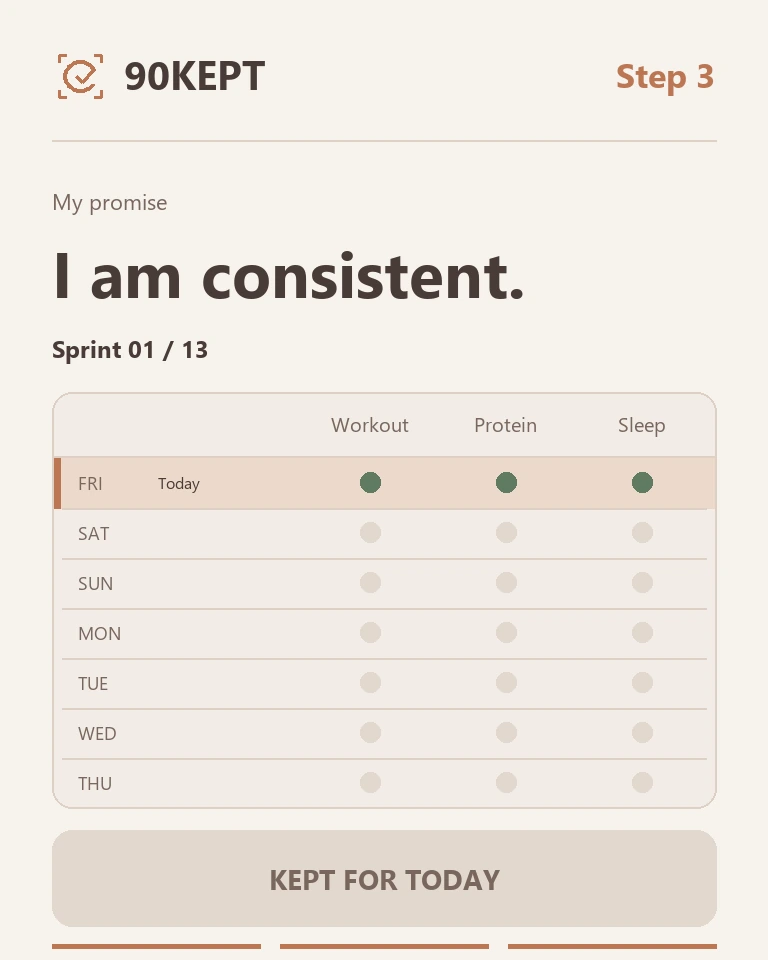
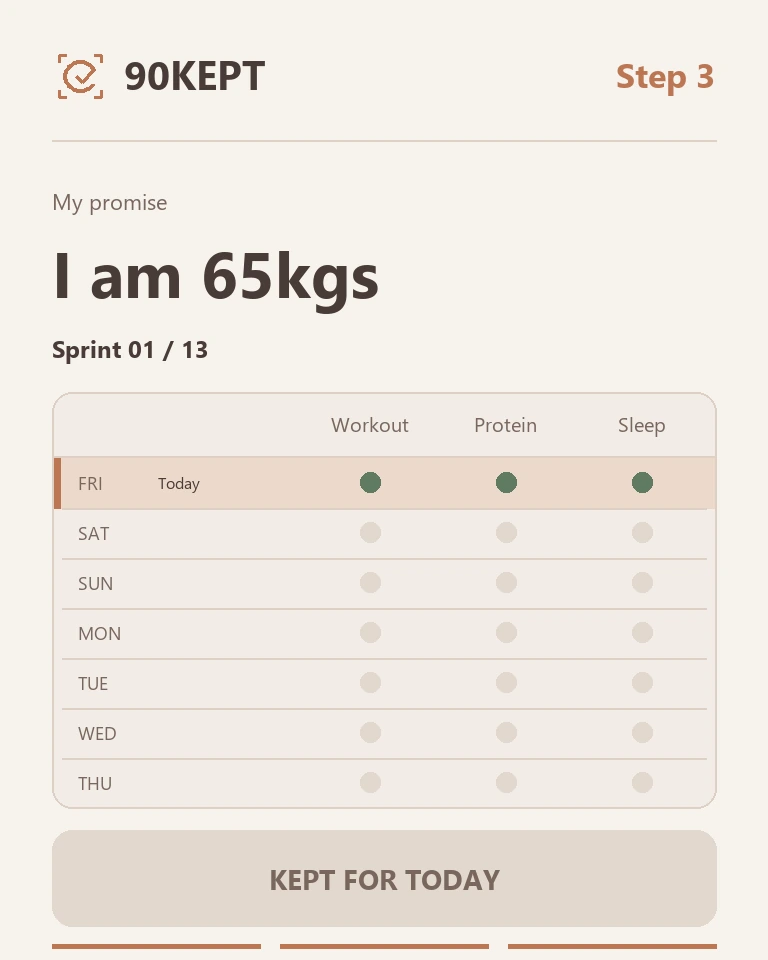
Use I am 65kgs as the product preview promise

Changed region(s): [[0.25, 0.25, 0.6875, 0.3438]]

diff --git a/90kept/index.html b/90kept/index.html
@@ -39,8 +39,8 @@
   <p id="login-error" class="status-message" role="alert" hidden></p>
   <figure class="product-flow">
     <video id="product-flow-video" width="768" height="960" muted playsinline preload="none"
-      poster="./static/media/product-flow-poster.webp?v=8f54609f13"
-      data-src="./static/media/product-flow.mp4?v=2b407354e9"
+      poster="./static/media/product-flow-poster.webp?v=72c9197142"
+      data-src="./static/media/product-flow.mp4?v=7077dc78bd"
       aria-label="Six-second product preview. Step 1: log in. Step 2: create a promise and three tracks. Step 3: check in daily. Each step lasts two seconds.">
       Step 1: log in. Step 2: create your promise. Step 3: check in daily.
     </video>
